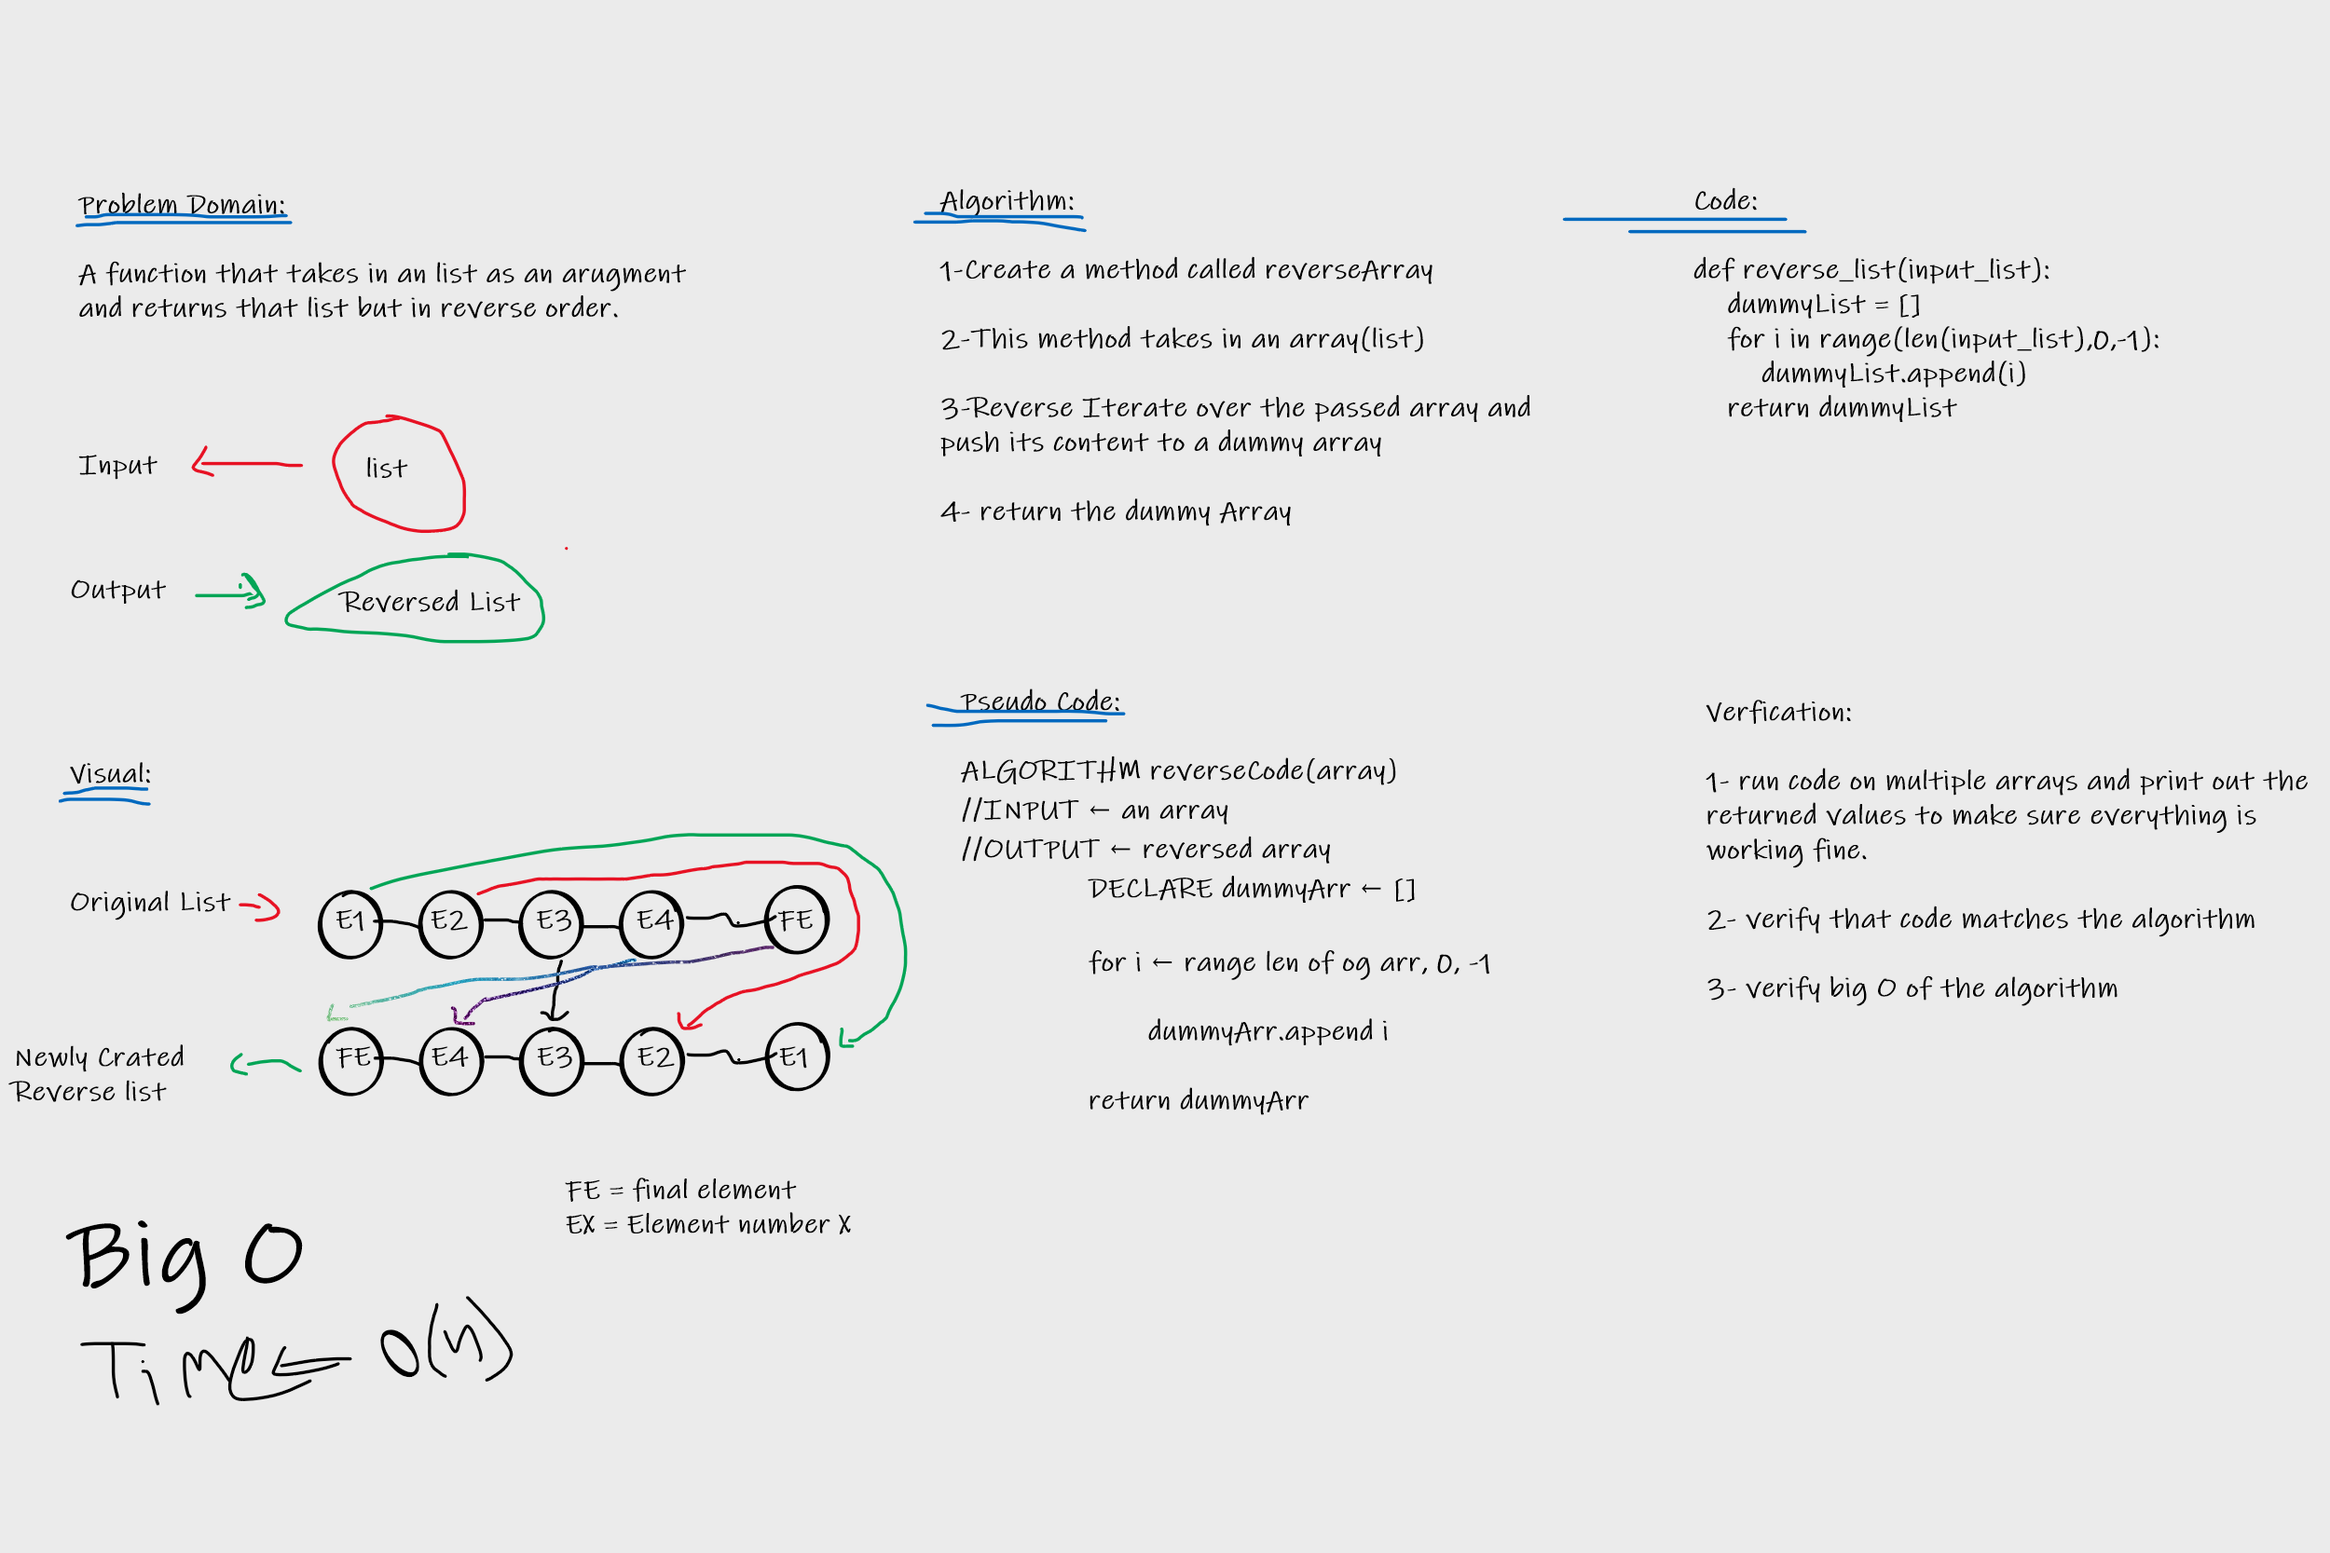
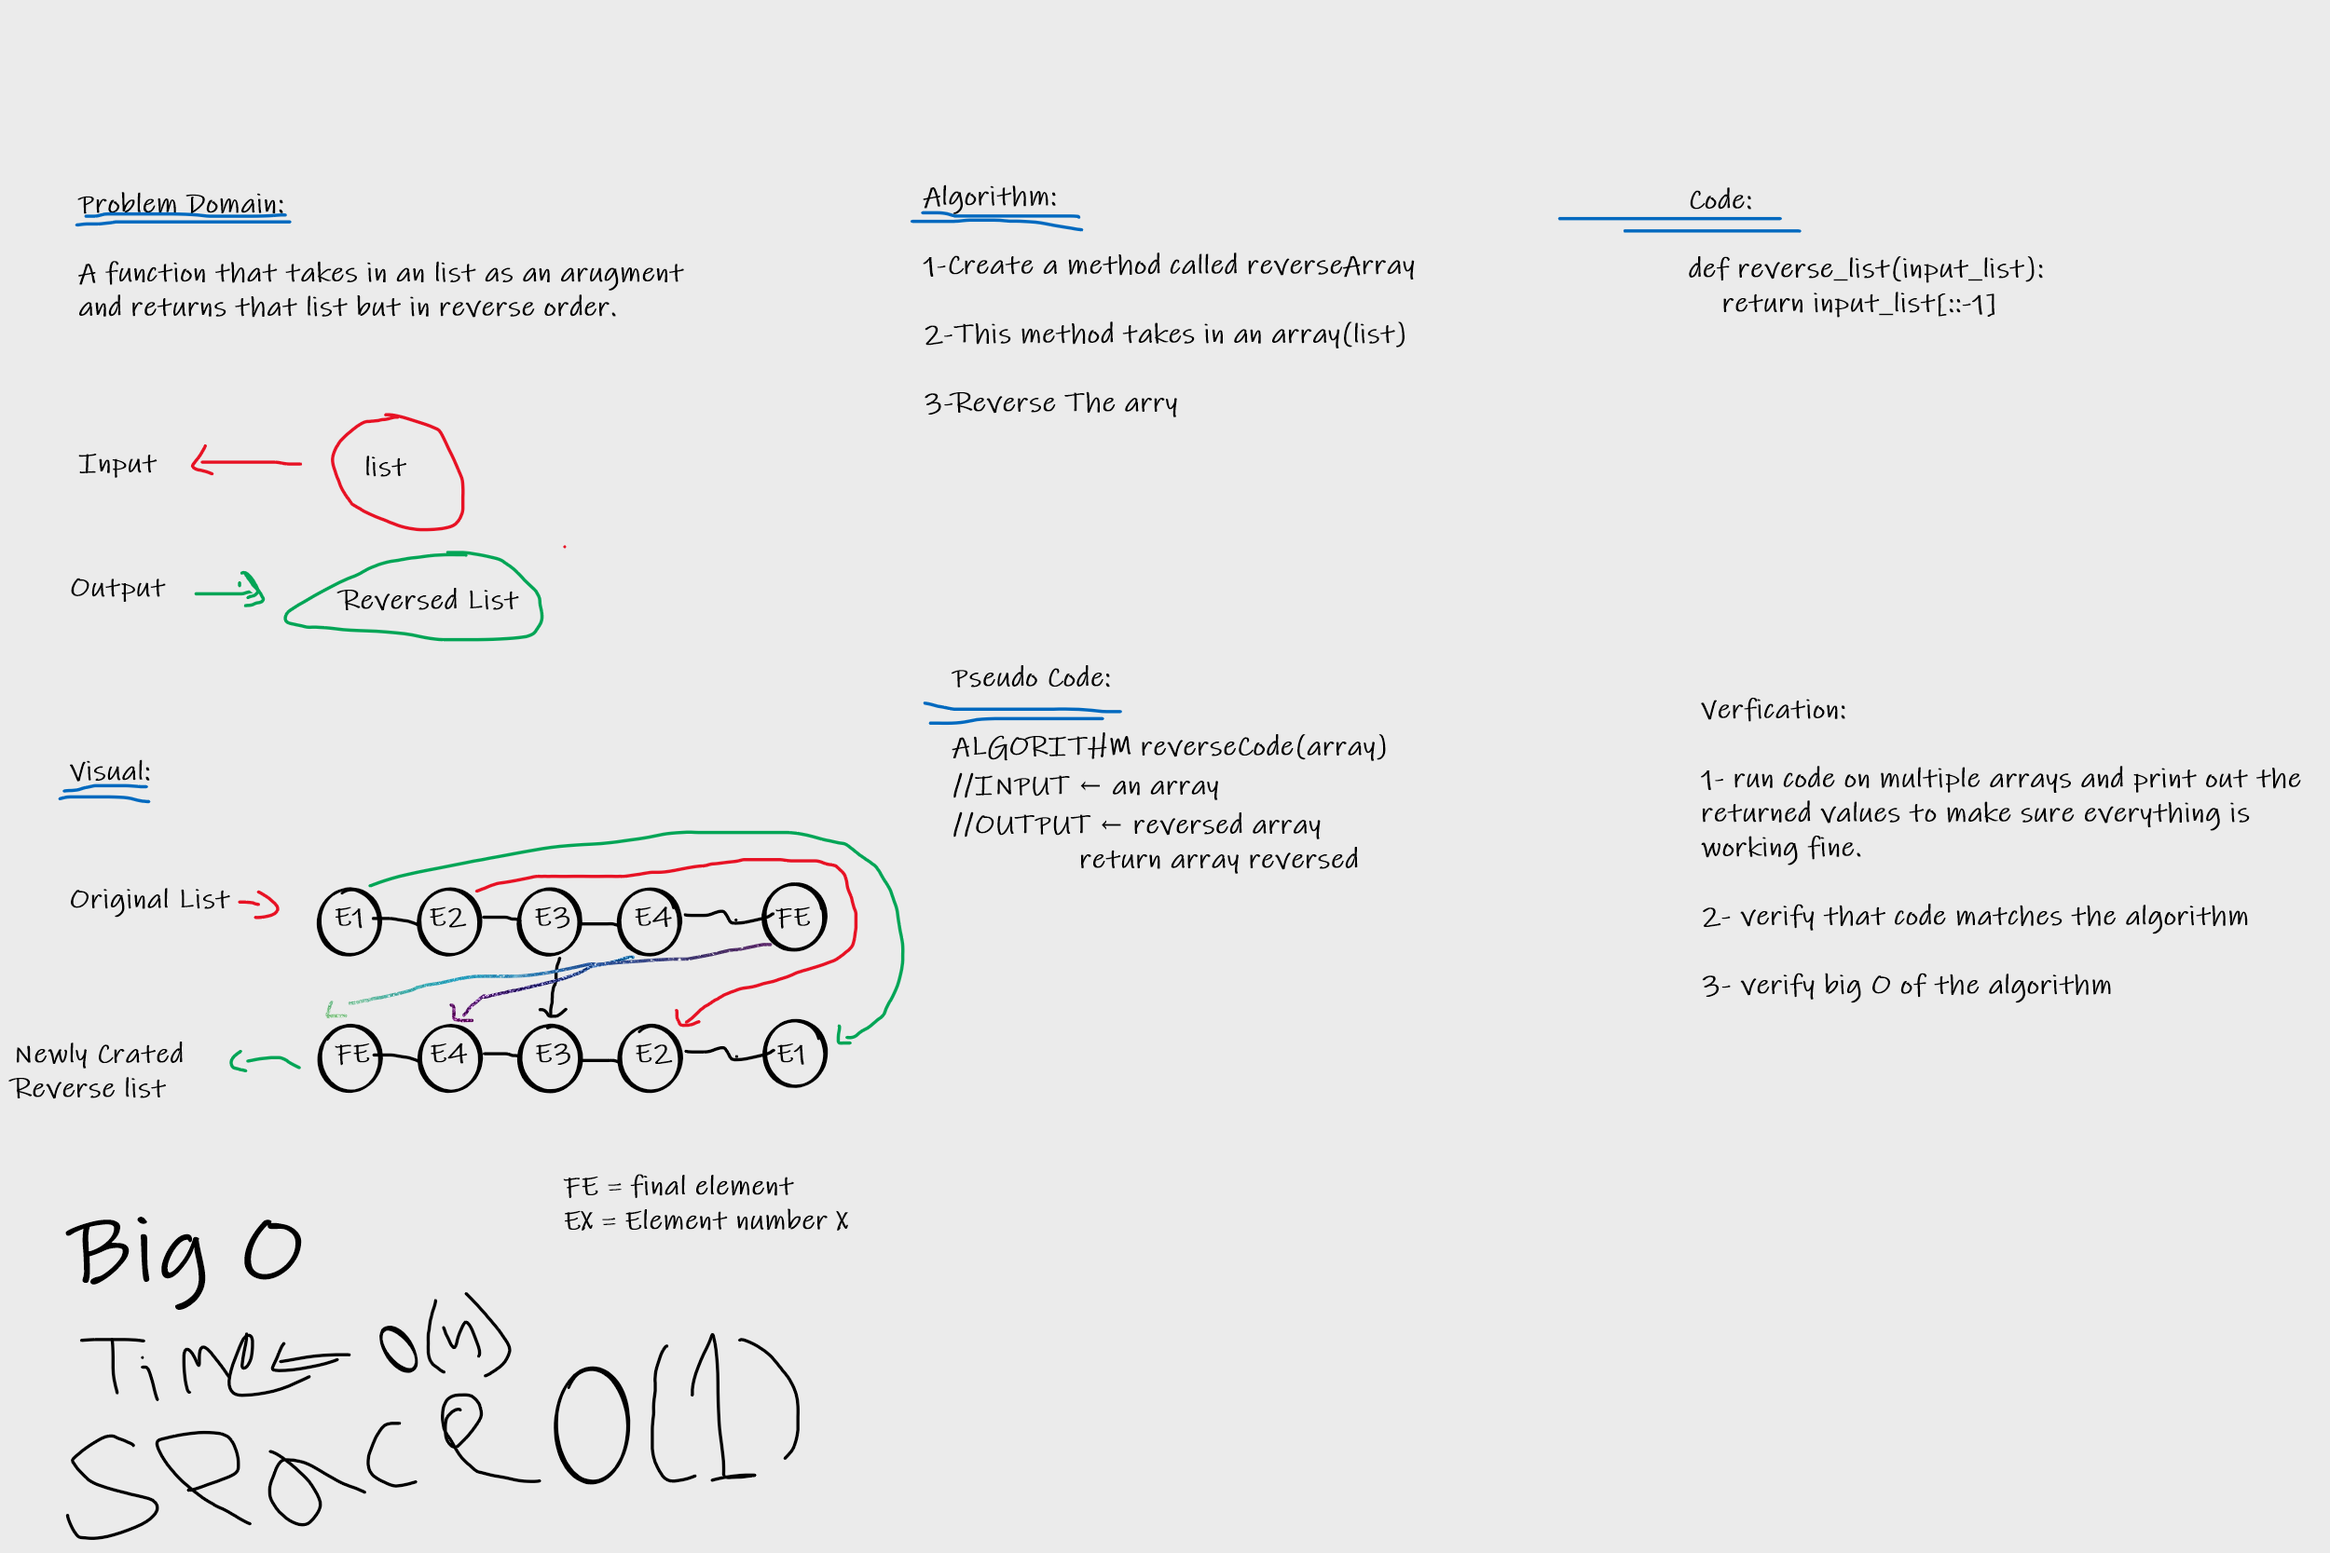
fixed code to not use any built in function

diff --git a/PythonCodeChallenge-01/README.md b/PythonCodeChallenge-01/README.md
@@ -6,4 +6,4 @@ Come up with an algorithm to reverse an input array without using any built in f
 
 ## Approach & Efficiency
 
-I started by breaking down what the problem is, then after figuring the problem out, I was able to come with the solution of looping through the array in reverse and pushing elements one by one to a new array and then return that array. it is very efficent as this algorithm uses as little lines as possible while giving out results instantly.
+I started by breaking down what the problem is, then after figuring the problem out, I was able to come with the solution of simply reversing the array using [::-1]. it is very efficent as this algorithm uses as little lines as possible while giving out results instantly.
